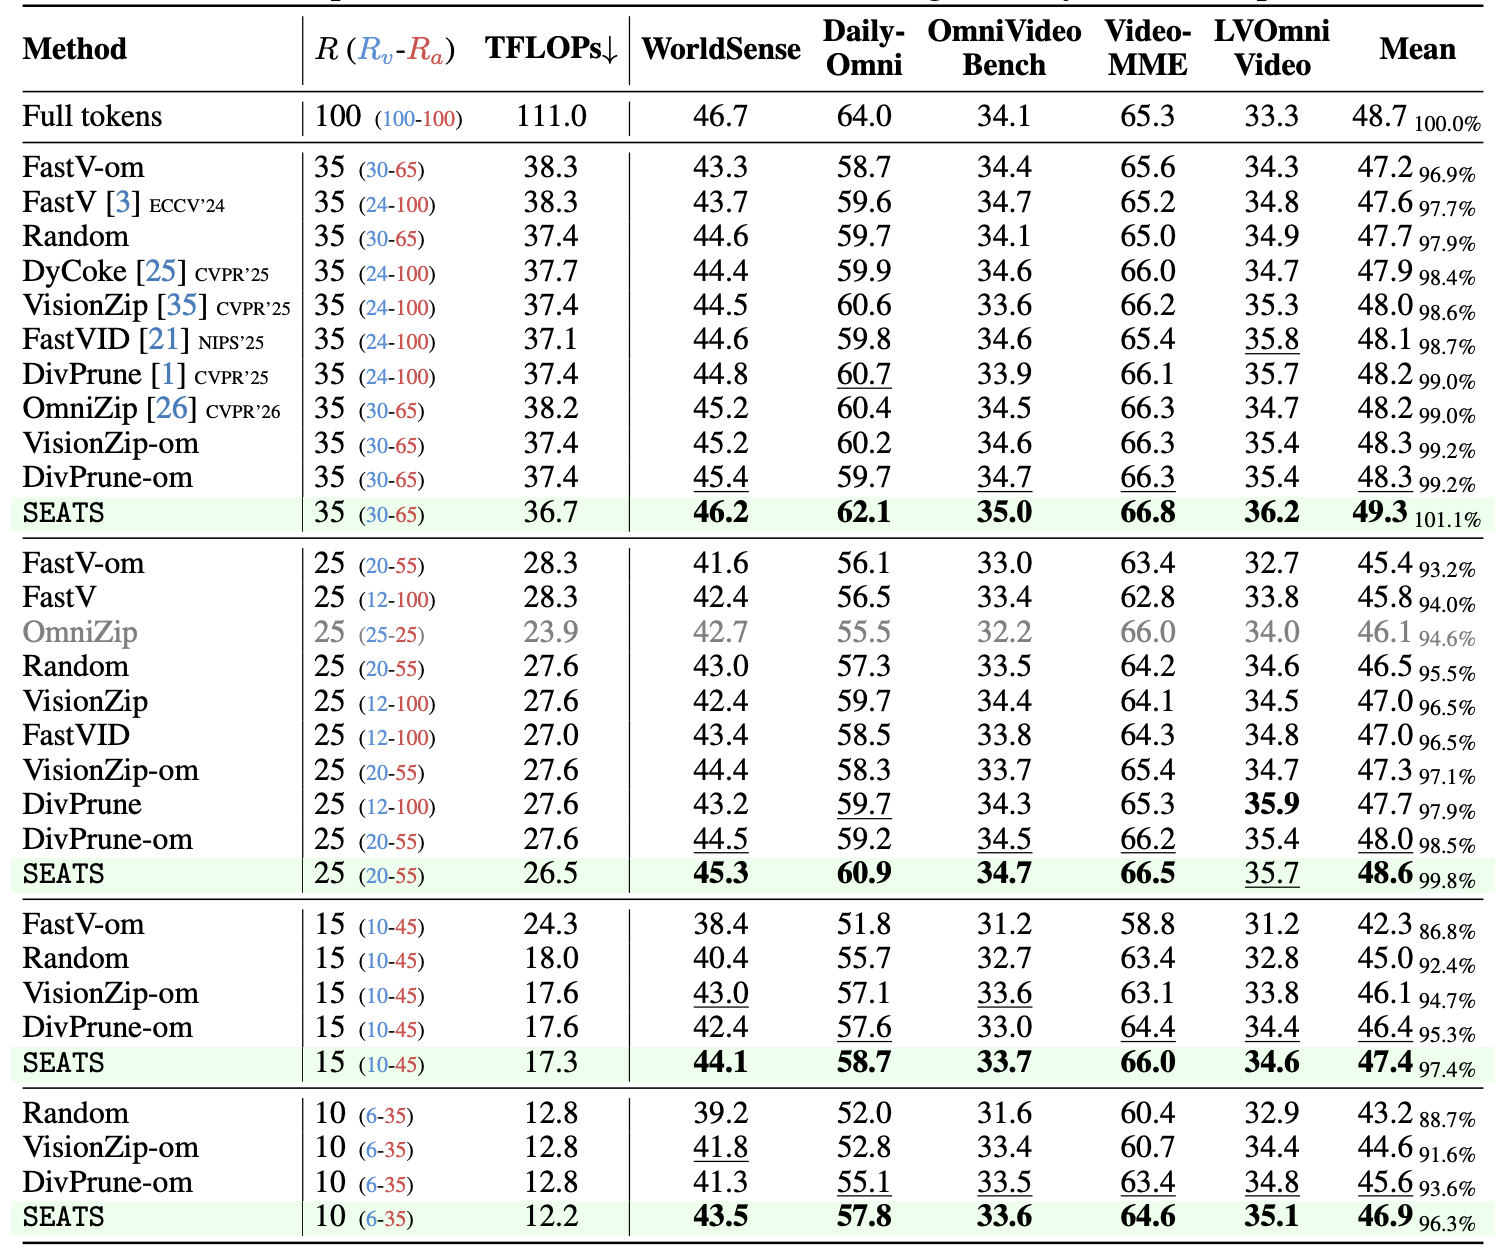
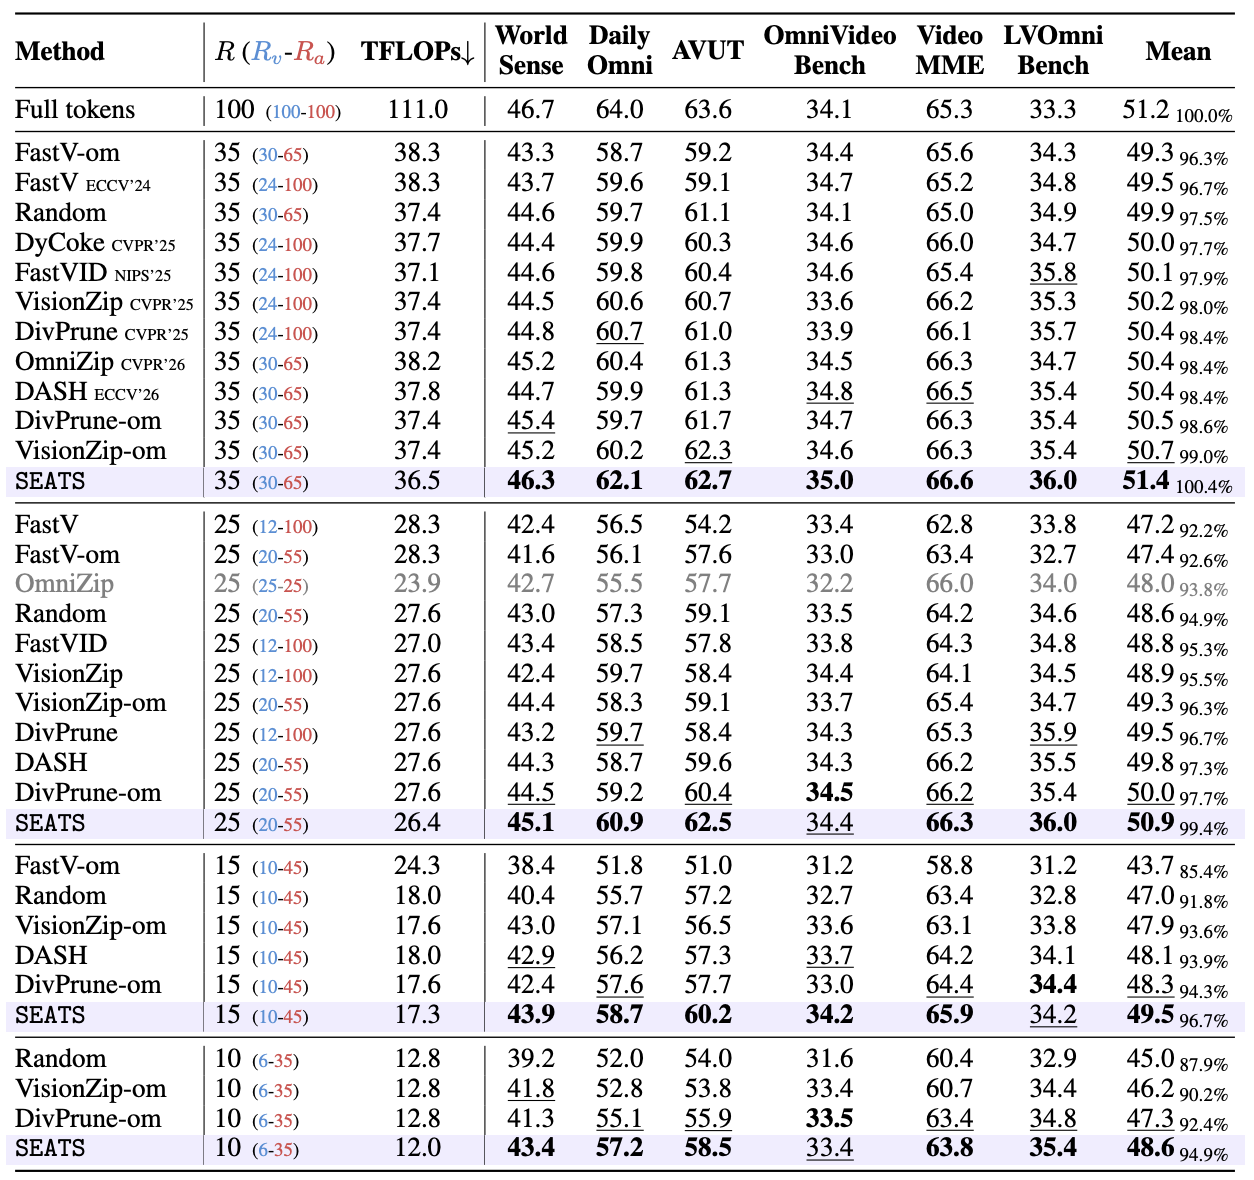
Update project page for SEATS v2

Changed region(s): [[0.0, 0.0, 0.9952, 1.0]]

diff --git a/index.html b/index.html
@@ -133,8 +133,7 @@
             <div class="hero-body has-text-centered">
                 <img src="static/images/teasor_overall.png" alt="Efficiency-performance trade-off" style="max-width: 100%;">
                 <p style="margin-top: 0.5rem; font-size: 0.95rem; color: #555;">
-                    <b>Efficiency-performance trade-off</b> of training-free token selection methods for omni-modal LLMs.
-                    Our SEATS achieves higher performance with lower token selection and prefill latency.
+                    <b>Efficiency–performance trade-off</b> of training-free token selection methods for om-LLMs.
                 </p>
             </div>
         </div>
@@ -148,9 +147,9 @@
                     <h2 class="title is-4 has-text-centered">TL;DR</h2>
                     <div class="content has-text-justified is-medium tldr-box">
                         We propose <b>SEATS</b>, a training-free, <u>s</u>tag<u>e</u>-<u>a</u>daptive <u>t</u>oken <u>s</u>election method for efficient omni-modal LLM inference.
-                        By analyzing layer-wise token dependency, we find visual and audio dependencies follow a block-wise pattern and weaken with depth.
-                        SEATS removes spatiotemporal redundancy before the LLM, progressively prunes tokens inside the LLM, and fully removes non-textual tokens in late layers.
-                        Retaining only <b>10%</b> of visual and audio tokens, it achieves a <b>9.3x FLOPs reduction</b> and a <b>4.8x prefill speedup</b> while preserving <b>96.3%</b> of the original performance.
+                        SEATS removes spatiotemporal redundancy before the LLM, retains the selected tokens in shallow layers, progressively prunes them in middle layers, and removes all non-textual tokens in late layers.
+                        It combines a fixed depth-proportion schedule with query-guided token budget allocation across temporal windows and modalities.
+                        At an overall token retention ratio of <b>10%</b>, it preserves <b>94.9%</b> of the full-token performance on Qwen2.5-Omni while achieving a <b>9.3x FLOPs reduction</b> and a <b>4.9x prefill speedup</b>.
                     </div>
                 </div>
             </div>
@@ -169,13 +168,13 @@
                 </div>
                 <div class="column is-3">
                     <div class="highlight-box">
-                        <span class="highlight-number">4.8x</span>
+                        <span class="highlight-number">4.9x</span>
                         <span class="highlight-label">Prefill Speedup</span>
                     </div>
                 </div>
                 <div class="column is-3">
                     <div class="highlight-box">
-                        <span class="highlight-number">96.3%</span>
+                        <span class="highlight-number">94.9%</span>
                         <span class="highlight-label">Performance Preserved</span>
                     </div>
                 </div>
@@ -197,13 +196,13 @@
                     <h2 class="title is-3">Abstract</h2>
                     <div class="content has-text-justified">
                         <p>
-                            Omni-modal large language models (om-LLMs) achieve unified audio-visual understanding by encoding video and audio into temporally aligned token sequences interleaved at the window level. However, processing these dense non-textual tokens throughout the LLM incurs substantial computational overhead. Although training-free token selection can reduce this cost, existing methods either focus on visual-only inputs or prune om-LLM tokens only before the LLM with fixed per-modality ratios, failing to capture how cross-modal token importance evolves across layers.
+                            The unified audio-visual understanding capability of omni-modal large language models (om-LLMs) comes at the high cost of processing tens of thousands of visual and audio tokens throughout the LLM. To reduce the cost, training-free methods for om-LLM token selection are being actively developed, operating either pre-LLM or inner-LLM.
                         </p>
                         <p>
-                            To address this limitation, we first analyze the layer-wise token dependency of om-LLMs. We find that visual and audio dependencies follow a block-wise pattern and gradually weaken with depth, indicating that many late-layer non-textual tokens become redundant after cross-modal fusion. Motivated by this observation, we propose <b>SEATS</b>, a training-free, stage-adaptive token selection method for efficient om-LLM inference. Before the LLM, SEATS removes spatiotemporal redundancy via attention-weighted diversity selection. Inside the LLM, it progressively prunes tokens across blocks and dynamically allocates the retention budget from temporal windows to modalities using query relevance scores. In late layers, it removes all remaining non-textual tokens once cross-modal fusion is complete.
+                            Recognizing that the non-textual token redundancy varies across stages and LLM layers, we propose in this paper a novel stage-adaptive token selection (<b>SEATS</b>) method that operates in both pre-LLM and inner-LLM stages. Given an overall token budget measured by the token retention rate (TRR), SEATS performs top-down token budget allocation in an input-dependent manner. <b>Specifically, a larger TRR is used for pre-LLM token selection, while within the LLM, all tokens are retained in shallow layers, increasingly decreased TRRs are applied in middle layers, and the non-textual tokens are fully removed in late layers.</b>
                         </p>
                         <p>
-                            Experiments on Qwen2.5-Omni and Qwen3-Omni demonstrate that SEATS effectively improves inference efficiency. Retaining only 10% of visual and audio tokens, it achieves a 9.3x FLOPs reduction and a 4.8x prefill speedup while preserving 96.3% of the original performance.
+                            Extensive experiments on three representative om-LLMs and six benchmarks verify the viability of the proposed method. By retaining only 10% of visual and audio tokens, SEATS preserves 94.9% of the full-token performance on Qwen2.5-Omni while achieving a 9.3x FLOPs reduction and a 4.9x prefill speedup.
                         </p>
                     </div>
                 </div>
@@ -217,9 +216,9 @@
             <h2 class="title is-3 has-text-centered">Observations: Layer-wise Token Dependency</h2>
             <div class="content has-text-justified">
                 <p>
-                    We examine the effect of removing all visual and/or audio tokens at a specific LLM layer of an om-LLM.
-                    A consistent block-wise dependence pattern emerges: <b>shallow</b> layers critically depend on non-textual tokens (removal causes performance collapse),
-                    <b>middle</b> layers show moderate dependence (fusion underway), and <b>late</b> layers show no impact (fusion complete).
+                    We examine the effect of removing all visual and/or audio tokens at a specific LLM layer on WorldSense, using Qwen2.5-Omni-7B, OmniVinci-9B, and Qwen3-Omni-30B.
+                    A consistent block-wise dependence pattern emerges: <b>shallow</b> layers (roughly the first 50%) critically depend on non-textual tokens,
+                    <b>middle</b> layers (roughly 50–80%) show decreasing dependence, and <b>late</b> layers (beyond roughly 80%) allow full non-textual token removal with almost no performance loss.
                 </p>
             </div>
             <div class="has-text-centered">
@@ -240,12 +239,12 @@
             <h2 class="title is-3 has-text-centered">Method</h2>
             <div class="content has-text-justified">
                 <p>
-                    SEATS is a three-stage method:
+                    SEATS allocates an overall token budget across three stages:
                 </p>
                 <ol>
-                    <li><b>Stage I: Pre-LLM Token Selection</b> &mdash; Applies attention-weighted diversity selection (winDivPrune) within each temporal window to remove spatiotemporal redundancy and shorten the input sequence.</li>
-                    <li><b>Stage II: Inner-LLM Token Selection</b> &mdash; Adopts a block-wise token-retention-ratio (TRR) decay schedule, progressively increasing pruning strength. It distributes the retention budget top-down: first across temporal windows, then across modalities, guided by query relevance scores.</li>
-                    <li><b>Stage III: Late Removal</b> &mdash; Removes all remaining non-textual tokens in late LLM layers where cross-modal fusion is largely completed.</li>
+                    <li><b>Stage I: Pre-LLM Token Selection</b> &mdash; Extends DivPrune to each temporal window and modality with attention-weighted diversity selection (winDivPrune). A larger pre-LLM retention ratio preserves more tokens for later query-guided selection.</li>
+                    <li><b>Stage II: Inner-LLM Token Selection</b> &mdash; Retains all tokens from Stage I in shallow layers, then reduces the TRR across three middle sub-blocks with linearly increasing steps (&delta;, 2&delta;, 3&delta;). Query relevance guides top-down budget allocation, first across temporal windows and then across modalities within each window.</li>
+                    <li><b>Stage III: Late Removal</b> &mdash; Removes all remaining non-textual tokens in late layers, where cross-modal fusion is largely complete, so subsequent layers process only text tokens.</li>
                 </ol>
             </div>
             <div class="has-text-centered">
@@ -253,6 +252,19 @@
                     <img src="static/images/method.png" alt="SEATS method overview" style="max-width: 100%; height: auto;">
                     <figcaption>
                         <b>Proposed StagE-Adaptive Token Selection (SEATS) method for om-LLMs.</b>
+                    </figcaption>
+                </figure>
+            </div>
+            <div class="content has-text-justified" style="margin-top: 2rem;">
+                <p>
+                    The block-wise decay schedule below retains more tokens in shallow layers and progressively reduces the budget in deeper layers. The same depth-proportion schedule is used across all three models: transition layers are set to &lfloor;L &middot; p&rfloor; + 1, where L is the number of LLM layers and p &isin; {0.5, 0.6, 0.7, 0.8}.
+                </p>
+            </div>
+            <div class="has-text-centered">
+                <figure>
+                    <img src="static/images/block-wise_decay_schedule.png" alt="Block-wise decay schedule for per-LLM-layer token retention ratio" style="max-width: 100%; height: auto;">
+                    <figcaption>
+                        <b>Proposed block-wise decay schedule for per-LLM-layer TRR.</b>
                     </figcaption>
                 </figure>
             </div>
@@ -266,7 +278,7 @@
 
             <div class="content has-text-justified">
                 <p>
-                    Extensive experiments on five audio-visual benchmarks with Qwen2.5-Omni-7B and Qwen3-Omni-30B verify the effectiveness of our method.
+                    Extensive experiments on six audio-visual benchmarks with Qwen2.5-Omni-7B, OmniVinci-9B, and Qwen3-Omni-30B verify the effectiveness of our method.
                 </p>
             </div>
 
@@ -275,6 +287,14 @@
             <div class="has-text-centered results-table">
                 <figure>
                     <img src="static/images/qwen2.5-omni-7b.png" alt="Qwen2.5-Omni-7B results" style="max-width: 100%; height: auto;">
+                </figure>
+            </div>
+
+            <!-- OmniVinci results -->
+            <div class="subtitle is-4 has-text-left" style="margin-top: 2rem;">OmniVinci-9B</div>
+            <div class="has-text-centered results-table">
+                <figure>
+                    <img src="static/images/omnivinci-9b.png" alt="OmniVinci-9B results" style="max-width: 100%; height: auto;">
                 </figure>
             </div>
 
